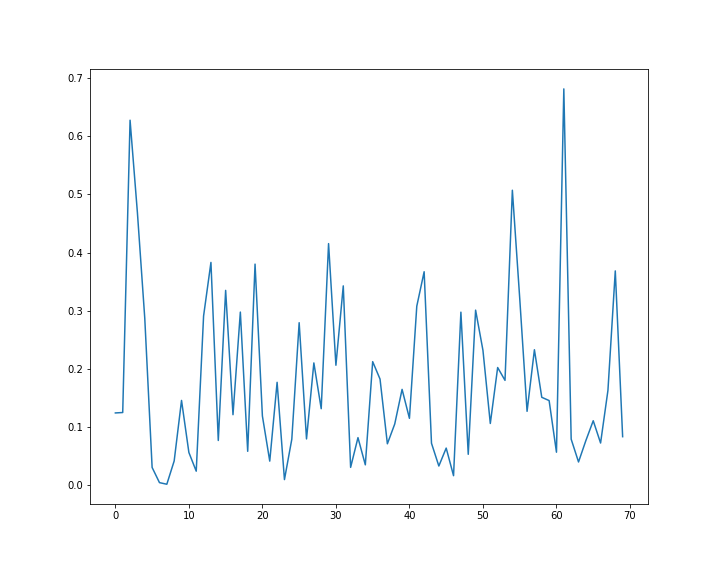
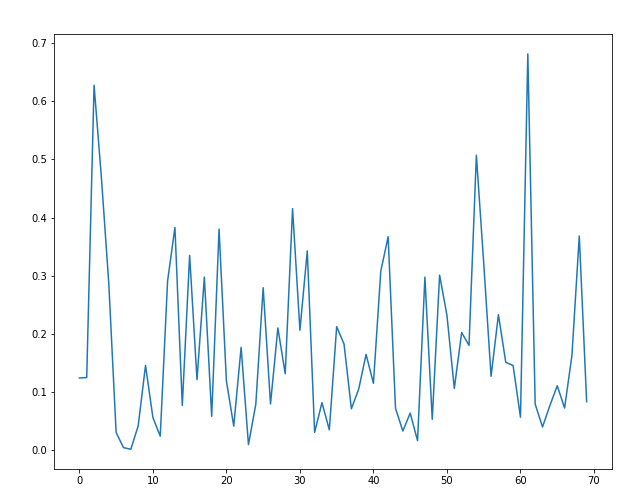
finish first iteration of RRM

diff --git a/rrm/test.py b/rrm/test.py
@@ -44,3 +44,4 @@ pep2 = newpep
 
 plt.plot(xaxis, pep2)
 plt.ylim(0,1)
+plt.savefig("final.png")
